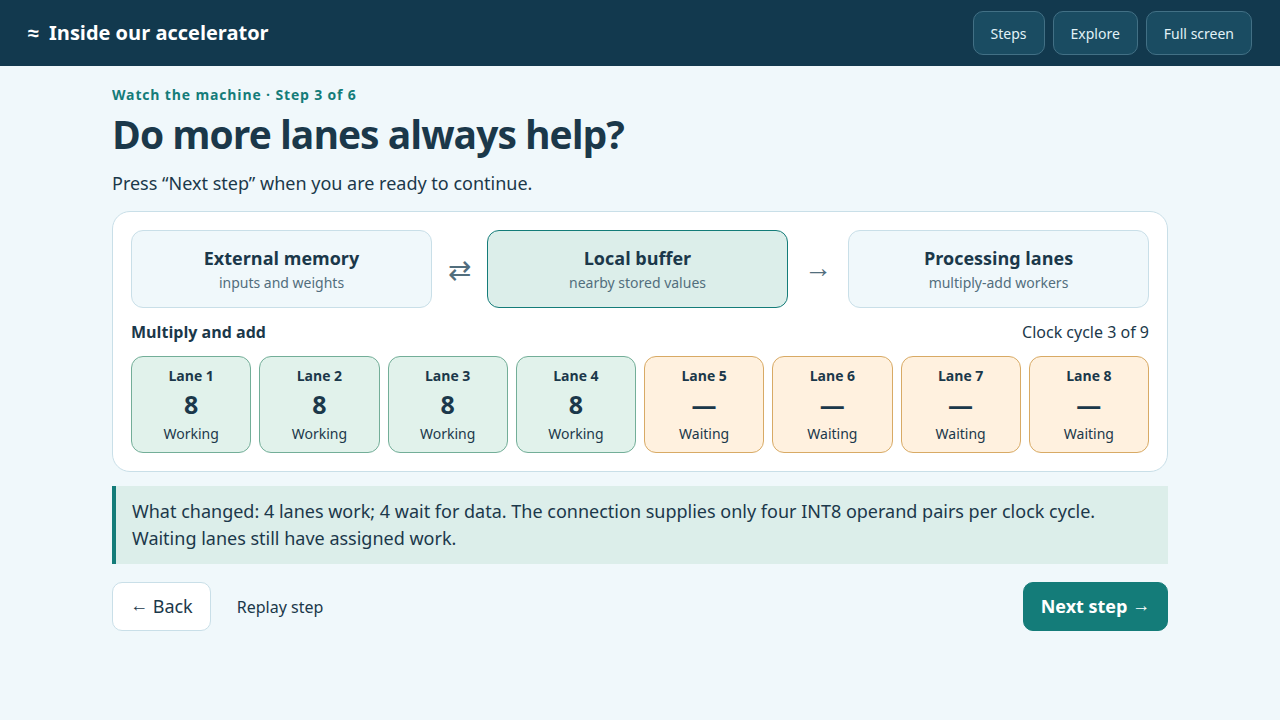
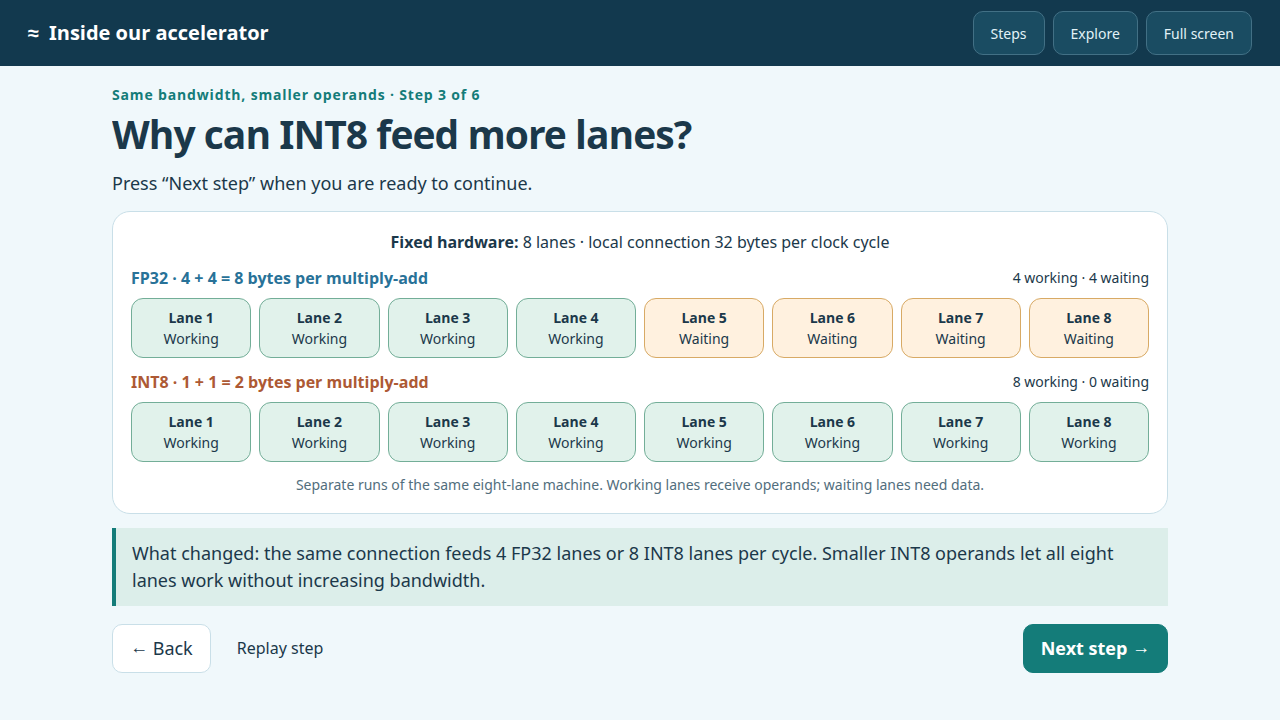
Compare FP32 and INT8 with the same bandwidth
Keep eight lanes and the baseline 32-byte connection fixed in step 3. Show four working FP32 lanes versus eight INT8 lanes, with both runs visible. Label the optional bandwidth experiment separately and check matching hardware, workload and answers.

diff --git a/demo/web/lessons.js b/demo/web/lessons.js
@@ -82,16 +82,7 @@ lessons.push(
 );
 
 const computeEvents = (data) => data.trace.filter((e) => e.phase === "compute");
-function machine(data, event, cycle) {
-  if (!data) return ready(data);
-  const phase = event?.phase || "ready";
-  const names = {
-    ready: "Ready to load",
-    load_inputs: "Load inputs",
-    load_weights: "Load weights",
-    compute: "Multiply and add",
-    store_outputs: "Store the answer",
-  };
+function laneGrid(data, event, phase = "ready", showTotals = true) {
   const ops = event?.macs || [];
   const lanes = Array.from({ length: data.config.lanes }, (_, i) => {
     const op = ops.find((o) => o.lane === i),
@@ -106,9 +97,21 @@ function machine(data, event, cycle) {
           : phase === "store_outputs"
             ? "Stored"
             : "Ready";
-    return `<div class="learning-lane ${op ? "working" : waiting ? "waiting" : ""}"><b>Lane ${i + 1}</b><strong>${op ? op.accumulator : phase === "store_outputs" ? data.output[0][i] : "—"}</strong><span>${status}</span></div>`;
+    return `<div class="learning-lane ${op ? "working" : waiting ? "waiting" : ""}"><b>Lane ${i + 1}</b>${showTotals ? `<strong>${op ? op.accumulator : phase === "store_outputs" ? data.output[0][i] : "—"}</strong>` : ""}<span>${status}</span></div>`;
   }).join("");
-  return `<div class="machine-route"><div class="${phase.startsWith("load") || phase === "store_outputs" ? "current" : ""}"><b>External memory</b><span>inputs and weights</span></div><span class="arrow">⇄</span><div class="${phase === "compute" ? "current" : ""}"><b>Local buffer</b><span>nearby stored values</span></div><span class="arrow">→</span><div><b>Processing lanes</b><span>multiply-add workers</span></div></div><p class="cycle-state"><b>${names[phase]}</b><span>Clock cycle ${cycle} of ${data.metrics.total_cycles}</span></p><div class="learning-lanes" style="--count:${Math.min(data.config.lanes, 8)}">${lanes}</div>`;
+  return `<div class="learning-lanes" style="--count:${Math.min(data.config.lanes, 8)}">${lanes}</div>`;
+}
+function machine(data, event, cycle) {
+  if (!data) return ready(data);
+  const phase = event?.phase || "ready";
+  const names = {
+    ready: "Ready to load",
+    load_inputs: "Load inputs",
+    load_weights: "Load weights",
+    compute: "Multiply and add",
+    store_outputs: "Store the answer",
+  };
+  return `<div class="machine-route"><div class="${phase.startsWith("load") || phase === "store_outputs" ? "current" : ""}"><b>External memory</b><span>inputs and weights</span></div><span class="arrow">⇄</span><div class="${phase === "compute" ? "current" : ""}"><b>Local buffer</b><span>nearby stored values</span></div><span class="arrow">→</span><div><b>Processing lanes</b><span>multiply-add workers</span></div></div><p class="cycle-state"><b>${names[phase]}</b><span>Clock cycle ${cycle} of ${data.metrics.total_cycles}</span></p>${laneGrid(data, event, phase)}`;
 }
 lessons.push(
   {
@@ -154,10 +157,10 @@ lessons.push(
   {
     id: "waiting",
     chapter: "Inside the accelerator",
-    title: "What if memory cannot feed every lane?",
+    title: "What if INT8 gets less bandwidth?",
     steps: 1,
     instruction:
-      "Press “Narrow the local connection” to reduce local reads from 32 to 8 bytes per clock cycle. Watch the lane status labels.",
+      "Press “Narrow the local connection” to reduce local reads from 32 to 8 bytes per cycle. This optional experiment keeps INT8 fixed.",
     button: "Narrow the local connection",
     load: async (api) => ({
       before: await api("/api/simulate", {
@@ -180,7 +183,7 @@ lessons.push(
     },
     explain: ({ data }) => {
       const e = computeEvents(data.after)[0];
-      return `What changed: ${e.macs.length} lanes work; ${e.waiting_lanes.length} wait for data. The connection supplies only four INT8 operand pairs per clock cycle. Waiting lanes still have assigned work.`;
+      return `What changed: INT8 stayed fixed; only bandwidth decreased. Now ${e.macs.length} lanes work and ${e.waiting_lanes.length} wait for data. This is a separate bandwidth experiment.`;
     },
   },
 );
@@ -426,32 +429,50 @@ lessons.push(
 // The main route supplements the slides; the longer explanations are optional.
 const detailed = lessons.slice();
 const byId = Object.fromEntries(detailed.map((l) => [l.id, l]));
-const parallelAndWaiting = {
+function formatLanes(run, active) {
+  const event = active ? computeEvents(run)[0] : null;
+  const pairBytes = run.metrics.local_operand_bytes_read / run.metrics.macs;
+  return `<section class="format-lanes" data-format="${run.precision}" aria-label="${run.precision.toUpperCase()} lane comparison"><div class="format-heading"><b class="${run.precision === "fp32" ? "fp" : "int"}">${run.precision.toUpperCase()} · ${pairBytes / 2} + ${pairBytes / 2} = ${pairBytes} bytes per multiply-add</b><span>${event ? `${event.macs.length} working · ${event.waiting_lanes.length} waiting` : "Ready"}</span></div>${laneGrid(run, event, "compute", false)}</section>`;
+}
+const precisionLaneComparison = {
   id: "lanes",
-  chapter: "Watch the machine",
-  title: "Do more lanes always help?",
+  chapter: "Same bandwidth, smaller operands",
+  title: "Why can INT8 feed more lanes?",
   steps: 2,
   instruction: ({ step }) =>
     step
-      ? "Press “Narrow the local connection” to reduce local reads to 8 bytes per clock cycle. Watch which lanes wait."
-      : "Press “Run eight lanes” to give eight lanes independent answers. Each lane performs a multiply-add.",
-  button: ({ step }) =>
-    step ? "Narrow the local connection" : "Run eight lanes",
-  load: byId.waiting.load,
-  act: (e, api) => (e.step ? byId.waiting.act(e, api) : undefined),
-  render: ({ step, data }) => {
-    if (!data) return ready(data);
-    const r = step === 2 ? data.after : data.before;
-    return machine(
-      r,
-      step ? computeEvents(r)[0] : null,
-      step ? r.trace.indexOf(computeEvents(r)[0]) + 1 : 0,
-    );
+      ? "Press “Switch to INT8”. Keep the same eight lanes and the same 32-byte connection; only the operand format changes."
+      : "Press “Run FP32” to see how many lanes the local connection can feed in one compute cycle. The connection supplies 32 bytes per cycle.",
+  button: ({ step }) => (step ? "Switch to INT8" : "Run FP32"),
+  load: async (api) => ({
+    fp32: await api("/api/simulate", {
+      preset: "parallel",
+      precision: "fp32",
+      config: { lanes: 8, local_read_bytes_per_cycle: 32 },
+    }),
+  }),
+  act: async (entry, api) =>
+    entry.step
+      ? {
+          ...entry.data,
+          int8: await api("/api/simulate", {
+            preset: "parallel",
+            precision: "int8",
+            config: { ...entry.data.fp32.config },
+          }),
+        }
+      : undefined,
+  render: ({ step, data }) =>
+    !data
+      ? ready(data)
+      : `<p class="fixed-hardware"><b>Fixed hardware:</b> ${data.fp32.config.lanes} lanes · local connection ${data.fp32.config.local_read_bytes_per_cycle} bytes per clock cycle</p>${formatLanes(data.fp32, step > 0)}${step === 2 ? formatLanes(data.int8, true) : ""}<p class="caption">Separate runs of the same eight-lane machine. Working lanes receive operands; waiting lanes need data.</p>`,
+  explain: ({ step, data }) => {
+    const fp = computeEvents(data.fp32)[0];
+    if (step === 1)
+      return `What changed: FP32 needs 8 bytes for two operands. At 32 bytes per cycle, ${fp.macs.length} lanes work and ${fp.waiting_lanes.length} wait. Next, keep the connection fixed and switch to INT8.`;
+    const integer = computeEvents(data.int8)[0];
+    return `What changed: the same connection feeds ${fp.macs.length} FP32 lanes or ${integer.macs.length} INT8 lanes per cycle. Smaller INT8 operands let all eight lanes work without increasing bandwidth.`;
   },
-  explain: (e) =>
-    e.step === 2
-      ? byId.waiting.explain(e)
-      : byId.parallel.explain({ data: e.data.before }),
 };
 const followDigit = {
   id: "digit",
@@ -502,7 +523,7 @@ lessons.splice(
   lessons.length,
   byId.rounding,
   byId.cycles,
-  parallelAndWaiting,
+  precisionLaneComparison,
   followDigit,
   byId.performance,
   byId.capacity,

diff --git a/demo/web/learning.css b/demo/web/learning.css
@@ -706,3 +706,28 @@ main {
 .score-key {
   row-gap: 6px;
 }
+.fixed-hardware {
+  text-align: center;
+  font-size: 16px;
+}
+.format-lanes {
+  display: grid;
+  gap: 8px;
+}
+.format-heading {
+  display: flex;
+  justify-content: space-between;
+  align-items: center;
+  gap: 12px;
+  font-size: 16px;
+}
+.format-heading span {
+  font-size: 14px;
+}
+@media (max-width: 700px) {
+  .format-heading {
+    flex-direction: column;
+    align-items: flex-start;
+    gap: 4px;
+  }
+}

diff --git a/demo/tests/learning_check.py b/demo/tests/learning_check.py
@@ -46,12 +46,28 @@ def check_learning(page, url, screenshots):
                     f"Clock cycle {action+1} of 6"
                 )
             if index == 2:
-                expect(page.locator(".learning-lane.working")).to_have_count(
-                    8 if action == 0 else 4
+                expect(page.locator(".fixed-hardware")).to_contain_text(
+                    "8 lanes · local connection 32 bytes per clock cycle"
                 )
-                expect(page.locator(".learning-lane.waiting")).to_have_count(
-                    0 if action == 0 else 4
-                )
+                fp = page.locator('[data-format="fp32"]')
+                expect(fp.locator(".learning-lane")).to_have_count(8)
+                expect(fp.locator(".learning-lane.working")).to_have_count(4)
+                expect(fp.locator(".learning-lane.waiting")).to_have_count(4)
+                expect(fp).to_contain_text("4 + 4 = 8 bytes")
+                if action == 0:
+                    expect(page.locator("#lesson-action")).to_have_text(
+                        "Switch to INT8"
+                    )
+                    expect(page.locator('[data-format="int8"]')).to_have_count(0)
+                else:
+                    integer = page.locator('[data-format="int8"]')
+                    expect(integer.locator(".learning-lane")).to_have_count(8)
+                    expect(integer.locator(".learning-lane.working")).to_have_count(8)
+                    expect(integer.locator(".learning-lane.waiting")).to_have_count(0)
+                    expect(integer).to_contain_text("1 + 1 = 2 bytes")
+                    expect(page.locator("#lesson-result")).to_contain_text(
+                        "without increasing bandwidth"
+                    )
             if index == 3 and action == 1:
                 expect(page.locator(".dot-inspection")).to_contain_text(
                     "3 of 784 terms"

diff --git a/demo/tests/test_server.py b/demo/tests/test_server.py
@@ -40,6 +40,38 @@ class ServerTests(unittest.TestCase):
         self.assertEqual(r["output"], [[29]])
         self.assertEqual(r["metrics"]["total_cycles"], 6)
 
+    def test_precision_comparison_keeps_hardware_and_workload_fixed(self):
+        runs = {}
+        for precision in ("fp32", "int8"):
+            with self.post(
+                "/api/simulate",
+                json.dumps(
+                    {
+                        "preset": "parallel",
+                        "precision": precision,
+                        "config": {"lanes": 8, "local_read_bytes_per_cycle": 32},
+                    }
+                ),
+            ) as response:
+                runs[precision] = json.load(response)
+        self.assertEqual(runs["fp32"]["config"], runs["int8"]["config"])
+        self.assertEqual(runs["fp32"]["left"], runs["int8"]["left"])
+        self.assertEqual(runs["fp32"]["right"], runs["int8"]["right"])
+        self.assertEqual(runs["fp32"]["output"], runs["int8"]["output"])
+        self.assertEqual(runs["int8"]["output"], [[29] * 8])
+        for precision, active, waiting, pair_bytes in [
+            ("fp32", 4, 4, 8),
+            ("int8", 8, 0, 2),
+        ]:
+            run = runs[precision]
+            event = next(e for e in run["trace"] if e["phase"] == "compute")
+            self.assertEqual(len(event["macs"]), active)
+            self.assertEqual(len(event["waiting_lanes"]), waiting)
+            self.assertEqual(
+                run["metrics"]["local_operand_bytes_read"] // run["metrics"]["macs"],
+                pair_bytes,
+            )
+
     def test_quantization_clipping_and_integer_units(self):
         with self.post(
             "/api/quantize", json.dumps({"value": 200, "scale": 1})

diff --git a/demo/README.md b/demo/README.md
@@ -6,7 +6,7 @@ numbers, proposed hardware, digit predictions, and memory limits in one place.
 **[Start with the launchers](../ONE-CLICK-LAUNCHERS/README.md).** They handle setup
 and open a local browser page on Windows, macOS, Linux, or WSL.
 
-![Four lanes working and four waiting for data](images/accelerator.png)
+![FP32 and INT8 lanes compared at the same local bandwidth](images/accelerator.png)
 
 ## Use alongside the PowerPoint
 
@@ -18,10 +18,16 @@ revisits a stop, and **Replay step** starts its actions again.
 |---|---|---|
 | 1 · Smaller numbers | **Convert 1.23** | Rounding stores 12 at scale 0.1 and reconstructs 1.2. |
 | 2 · Clock cycles | **Next clock cycle**, six times | Load inputs, load weights, three multiply-adds, and store 29. |
-| 3 · Working/waiting lanes | **Run eight lanes**, then **Narrow the local connection** | Four lanes wait when local reads cannot feed all eight. |
+| 3 · Same bandwidth, smaller operands | **Run FP32**, then **Switch to INT8** | At the same 32 bytes/cycle, four FP32 lanes or all eight INT8 lanes receive their operands. |
 | 4 · One real image | **Inspect this pixel** → **Show the first-layer calculation** → **Prepare the hidden values** → **Show the ten scores** → **Highlight the largest score** | Follow the trained network before revealing its prediction. |
 | 5 · Performance | **Compare FP32 and INT8** | Matched matrix-stage cycles and their compute/transfer breakdown. |
 | 6 · Memory fit | **Use a 64 KiB buffer** | INT8 fits; FP32 does not fit this untiled model. |
+
+Stop 3 holds the calculation, eight physical lanes, and all hardware settings fixed.
+Only the operand format changes: At our baseline 32 bytes/cycle, FP32 needs 4 + 4 bytes per multiply-add; INT8 needs
+1 + 1. The two rows are separate runs of the same machine. More INT8 lanes can work
+per compute cycle because their operands use fewer bytes. Custom bandwidth changes
+remain available in Explore and the optional waiting-lanes explanation.
 
 Use **Steps** to jump to a topic when it supports the current slide. For a short
 presentation insert, use stop 2 with slide 7 (six clock cycles) and stop 3 with
@@ -117,7 +123,7 @@ With their default local server, backend connections are restricted to loopback 
 `--url http://127.0.0.1:PORT` checks an existing server; `--screenshots PATH` saves
 actual browser captures. These tools are not required for presenting.
 
-Verification on November 20, 2026: the redesigned app passes 27 calculation,
+Verification on November 20, 2026: the redesigned app passes 28 calculation,
 asset, HTTP and launcher checks on Linux/WSL Python 3.12. Headless Chromium checks
 cover every presentation action, optional explanation, error recovery, keyboard
 navigation, Explore/return, laptop/projector/mobile layouts and enlarged content.

diff --git a/AGENTS.md b/AGENTS.md
@@ -58,6 +58,9 @@ stops; deeper arithmetic explanations belong in Steps → Extra explanations, an
 custom settings/gallery/sweeps belong in Explore. Each action reveals one clear
 change, followed by its explanation. Keep the instruction, visual, result and next
 action together at laptop size. Reveal predictions only at the largest-score step.
+The main lane comparison holds eight lanes and the baseline 32-byte/cycle local
+connection fixed: FP32 feeds four lanes, INT8 feeds all eight. Bandwidth changes
+belong to the separately labeled optional experiment.
 
 Inspection fields come from the already-checked simulation, not recreated browser
 arithmetic. Selected terms must be labeled as a subset of the full dot product.
